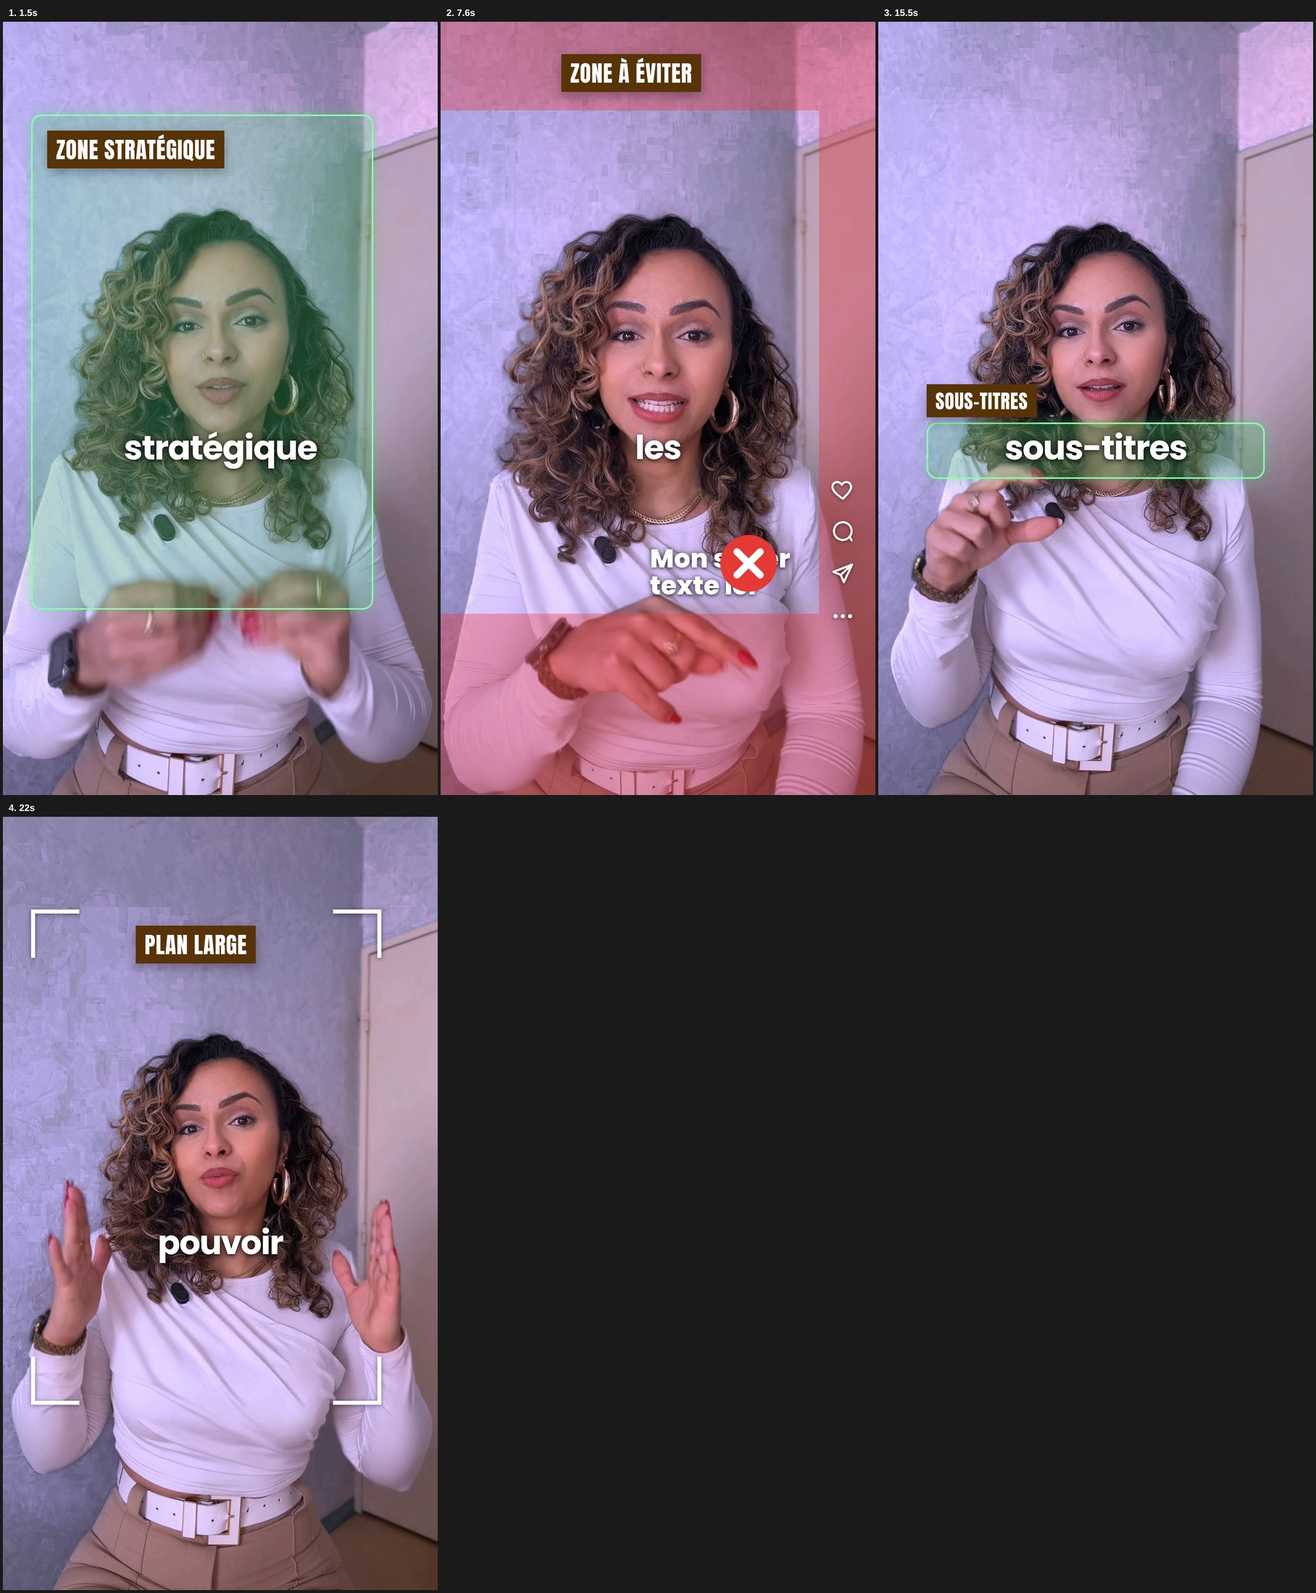
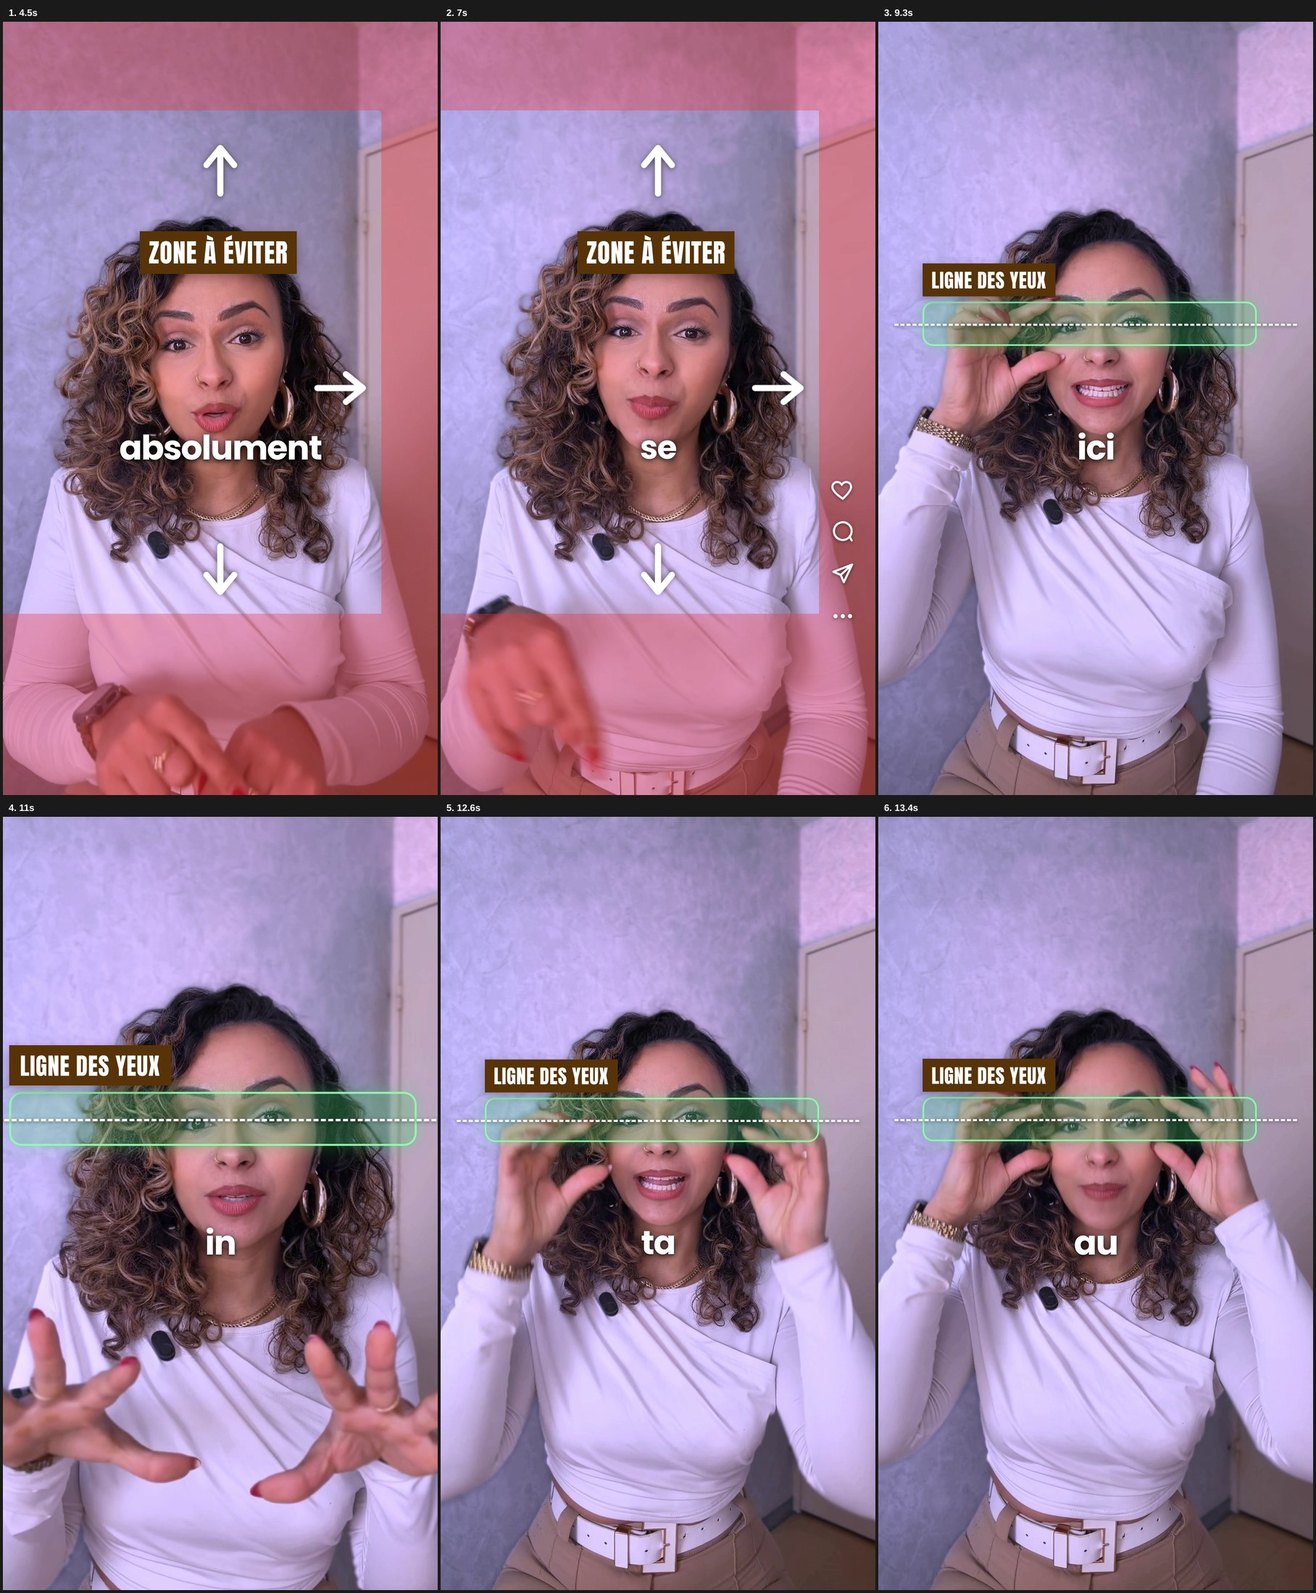
zone v2: label + arrows in the readable area, no fake text, eye line tracks her eyes
Claude-Session: https://claude.ai/code/session_019pwbzbkUo8jfmpgWNgx2Yp

diff --git a/reels/zone/index.html b/reels/zone/index.html
@@ -18,6 +18,8 @@ html,body{width:1080px;height:1920px;overflow:hidden;background:#000}
 .lbl{position:absolute;z-index:12;font-family:Anton;letter-spacing:.02em;color:#fff;background:#573307;padding:6px 22px 4px;
   box-shadow:0 10px 26px rgba(0,0,0,.3)}
 #igcol{position:absolute;z-index:9;left:968px;top:1130px;display:flex;flex-direction:column;gap:38px;filter:drop-shadow(0 2px 4px rgba(0,0,0,.5))}
+#eyeG{position:absolute;inset:0;z-index:6}
+.arw{position:absolute;z-index:11;filter:drop-shadow(0 3px 8px rgba(0,0,0,.55))}
 #badTxt{position:absolute;z-index:8;left:520px;top:1300px;font:800 64px/1.05 Poppins;color:#fff;width:520px;
   text-shadow:0 0 18px rgba(0,0,0,.6),0 3px 8px rgba(0,0,0,.5)}
 #badX{position:absolute;z-index:11;left:690px;top:1270px}
@@ -61,16 +63,16 @@ html,body{width:1080px;height:1920px;overflow:hidden;background:#000}
 <audio id="sfx15" src="assets/sfx/pop.mp3" data-start="24.300" data-duration="0.720" data-track-index="10" data-volume="0.180"></audio>
 <audio id="sfx16" src="assets/sfx/click.mp3" data-start="25.200" data-duration="0.360" data-track-index="10" data-volume="0.300"></audio>
 <audio id="sfx17" src="assets/sfx/sparkle.mp3" data-start="25.350" data-duration="1.119" data-track-index="11" data-volume="0.105"></audio>
-  <div id="stage"><video id="bgv" class="full" src="assets/aroll.mp4" muted playsinline data-start="0" data-media-start="0" data-duration="26.469" data-track-index="0"></video></div>
+  <div id="stage"><video id="bgv" class="full" src="assets/aroll.mp4" muted playsinline data-start="0" data-media-start="0" data-duration="26.469" data-track-index="0"></video>
+<div id="eyeG"><div id="zEye" class="zone g" style="left:110px;top:717px;width:830px;height:110px"></div><div id="eyeLine" style="top:772px"></div><div id="lEye" class="lbl" style="left:110px;top:622px;font-size:48px">LIGNE DES YEUX</div></div></div>
 <div id="zSafe" class="zone g" style="left:70px;top:230px;width:850px;height:1230px"></div>
 <div id="lSafe" class="lbl" style="left:110px;top:270px;font-size:56px">ZONE STRATÉGIQUE</div>
 <div id="zRed"><div class="zone r" style="left:0;top:0;width:1080px;height:220px"></div><div class="zone r" style="left:0;top:1470px;width:1080px;height:450px"></div><div id="zRight" class="zone r" style="left:940px;top:220px;width:140px;height:1250px"></div></div>
-<div id="lRed" class="lbl" style="left:300px;top:80px;font-size:56px">ZONE À ÉVITER</div>
+<div id="lRed" class="lbl" style="left:340px;top:520px;font-size:64px">ZONE À ÉVITER</div>
+<div id="arUp" class="arw" style="left:492px;top:300px;transform:rotate(0deg)"><svg viewBox="0 0 100 140" width="96" height="134"><path d="M50 132V24M14 58L50 14l36 44" fill="none" stroke="#fff" stroke-width="16" stroke-linecap="round" stroke-linejoin="round"/></svg></div>
+<div id="arDn" class="arw" style="left:492px;top:1290px;transform:rotate(180deg)"><svg viewBox="0 0 100 140" width="96" height="134"><path d="M50 132V24M14 58L50 14l36 44" fill="none" stroke="#fff" stroke-width="16" stroke-linecap="round" stroke-linejoin="round"/></svg></div>
+<div id="arRt" class="arw" style="left:790px;top:840px;transform:rotate(90deg)"><svg viewBox="0 0 100 140" width="96" height="134"><path d="M50 132V24M14 58L50 14l36 44" fill="none" stroke="#fff" stroke-width="16" stroke-linecap="round" stroke-linejoin="round"/></svg></div>
 <div id="igcol"><div class="igi"><svg viewBox="0 0 24 24" width="62" height="62"><path d="M12 21s-7.5-4.6-9.5-9.2C1 8.4 3.2 5 6.6 5c2.1 0 3.4 1.2 4.4 2.5C12 6.2 13.3 5 15.4 5 18.8 5 21 8.4 19.5 11.8 17.5 16.4 12 21 12 21z" fill="none" stroke="#fff" stroke-width="2"/></svg></div><div class="igi"><svg viewBox="0 0 24 24" width="62" height="62"><path d="M20.5 11.5a8.5 8.5 0 1 1-3.4-6.8 8.4 8.4 0 0 1 3.4 6.8zM20.5 20.5l-2-4" fill="none" stroke="#fff" stroke-width="2" stroke-linecap="round"/></svg></div><div class="igi"><svg viewBox="0 0 24 24" width="62" height="62"><path d="M21 3L3 10l7 3 3 7z M10 13L21 3" fill="none" stroke="#fff" stroke-width="2" stroke-linejoin="round"/></svg></div><div class="igi"><svg viewBox="0 0 24 24" width="62" height="62"><circle cx="5" cy="12" r="2" fill="#fff"/><circle cx="12" cy="12" r="2" fill="#fff"/><circle cx="19" cy="12" r="2" fill="#fff"/></svg></div></div>
-<div id="badTxt">Mon super texte ici</div>
-<div id="badX"><svg viewBox="0 0 100 100" width="150" height="150"><circle cx="50" cy="50" r="44" fill="#E53935"/><path d="M32 32l36 36M68 32L32 68" stroke="#fff" stroke-width="11" stroke-linecap="round"/></svg></div>
-<div id="zEye" class="zone g" style="left:110px;top:717px;width:830px;height:110px"></div><div id="eyeLine" style="top:772px"></div>
-<div id="lEye" class="lbl" style="left:110px;top:622px;font-size:48px">LIGNE DES YEUX</div>
 <div id="zCap" class="zone g" style="left:120px;top:995px;width:840px;height:140px"></div>
 <div id="lCap" class="lbl" style="left:120px;top:900px;font-size:48px">SOUS-TITRES</div>
 <div id="zHook" class="zone g" style="left:120px;top:240px;width:840px;height:170px"></div>
@@ -208,17 +210,115 @@ tl.fromTo('#zRight',{backgroundColor:'rgba(235,55,55,.36)'},{backgroundColor:'rg
 gsap.set('#lRed',{autoAlpha:0});
 tl.fromTo('#lRed',{autoAlpha:0,scale:0.5},{autoAlpha:1,scale:1,duration:0.28,ease:'back.out(1.8)',immediateRender:false},3.300);
 tl.set('#lRed',{autoAlpha:0},8.250);
+gsap.set('#arUp',{autoAlpha:0});
+tl.fromTo('#arUp',{autoAlpha:0,scale:0.4},{autoAlpha:1,scale:1,duration:0.3,ease:'back.out(1.8)',immediateRender:false},3.550);
+tl.set('#arUp',{autoAlpha:0},8.25);
+gsap.set('#arDn',{autoAlpha:0});
+tl.fromTo('#arDn',{autoAlpha:0,scale:0.4},{autoAlpha:1,scale:1,duration:0.3,ease:'back.out(1.8)',immediateRender:false},3.550);
+tl.set('#arDn',{autoAlpha:0},8.25);
+gsap.set('#arRt',{autoAlpha:0});
+tl.fromTo('#arRt',{autoAlpha:0,scale:0.4},{autoAlpha:1,scale:1,duration:0.3,ease:'back.out(1.8)',immediateRender:false},3.550);
+tl.set('#arRt',{autoAlpha:0},8.25);
+tl.to('#arUp',{y:-14,duration:.3,yoyo:true,repeat:5,ease:'sine.inOut'},3.9);
 gsap.set('#igcol',{autoAlpha:0});
 tl.fromTo('#igcol',{autoAlpha:0,scale:0.7},{autoAlpha:1,scale:1,duration:0.3,ease:'back.out(1.8)',immediateRender:false},5.550);
 tl.set('#igcol',{autoAlpha:0},8.25);
 gsap.set('#igcol .igi',{autoAlpha:0});
 tl.fromTo('#igcol .igi',{autoAlpha:0,x:30},{autoAlpha:1,x:0,duration:.18,stagger:.07,immediateRender:false},5.60);
-gsap.set('#badTxt',{autoAlpha:0});
-tl.fromTo('#badTxt',{autoAlpha:0,scale:0.7},{autoAlpha:1,scale:1,duration:0.25,ease:'back.out(1.8)',immediateRender:false},6.550);
-tl.set('#badTxt',{autoAlpha:0},8.25);
-gsap.set('#badX',{autoAlpha:0});
-tl.fromTo('#badX',{autoAlpha:0,scale:0.3},{autoAlpha:1,scale:1,duration:0.3,ease:'back.out(1.8)',immediateRender:false},7.400);
-tl.set('#badX',{autoAlpha:0},8.25);
+gsap.set('#eyeG',{y:19.0});
+tl.to('#eyeG',{y:18.6,duration:0.067,ease:'none'},8.000);
+tl.to('#eyeG',{y:9.7,duration:0.066,ease:'none'},8.067);
+tl.to('#eyeG',{y:0.8,duration:0.067,ease:'none'},8.133);
+tl.to('#eyeG',{y:-8.1,duration:0.067,ease:'none'},8.200);
+tl.to('#eyeG',{y:-16.8,duration:0.066,ease:'none'},8.267);
+tl.to('#eyeG',{y:-24.8,duration:0.067,ease:'none'},8.333);
+tl.to('#eyeG',{y:-32.7,duration:0.067,ease:'none'},8.400);
+tl.to('#eyeG',{y:-40.4,duration:0.066,ease:'none'},8.467);
+tl.to('#eyeG',{y:-39.5,duration:0.067,ease:'none'},8.533);
+tl.to('#eyeG',{y:-38.6,duration:0.067,ease:'none'},8.600);
+tl.to('#eyeG',{y:-37.7,duration:0.066,ease:'none'},8.667);
+tl.to('#eyeG',{y:-36.8,duration:0.067,ease:'none'},8.733);
+tl.to('#eyeG',{y:-36.2,duration:0.067,ease:'none'},8.800);
+tl.to('#eyeG',{y:-35.4,duration:0.066,ease:'none'},8.867);
+tl.to('#eyeG',{y:-33.9,duration:0.067,ease:'none'},8.933);
+tl.to('#eyeG',{y:-31.6,duration:0.067,ease:'none'},9.000);
+tl.to('#eyeG',{y:-28.8,duration:0.066,ease:'none'},9.067);
+tl.to('#eyeG',{y:-26.1,duration:0.067,ease:'none'},9.133);
+tl.to('#eyeG',{y:-23.4,duration:0.067,ease:'none'},9.200);
+tl.to('#eyeG',{y:-20.9,duration:0.066,ease:'none'},9.267);
+tl.to('#eyeG',{y:-18.9,duration:0.067,ease:'none'},9.333);
+tl.to('#eyeG',{y:-17.9,duration:0.067,ease:'none'},9.400);
+tl.to('#eyeG',{y:-18.5,duration:0.066,ease:'none'},9.467);
+tl.to('#eyeG',{y:-20.9,duration:0.067,ease:'none'},9.533);
+tl.to('#eyeG',{y:-23.9,duration:0.067,ease:'none'},9.600);
+tl.to('#eyeG',{y:-26.8,duration:0.066,ease:'none'},9.667);
+tl.to('#eyeG',{y:-29.7,duration:0.067,ease:'none'},9.733);
+tl.to('#eyeG',{y:-32.6,duration:0.067,ease:'none'},9.800);
+tl.to('#eyeG',{y:-35.0,duration:0.066,ease:'none'},9.867);
+tl.to('#eyeG',{y:-36.4,duration:0.067,ease:'none'},9.933);
+tl.to('#eyeG',{y:-36.0,duration:0.067,ease:'none'},10.000);
+tl.to('#eyeG',{y:-35.1,duration:0.066,ease:'none'},10.067);
+tl.to('#eyeG',{y:-34.3,duration:0.067,ease:'none'},10.133);
+tl.to('#eyeG',{y:-33.4,duration:0.067,ease:'none'},10.200);
+tl.to('#eyeG',{y:-32.6,duration:0.066,ease:'none'},10.267);
+tl.to('#eyeG',{y:-31.9,duration:0.067,ease:'none'},10.333);
+tl.to('#eyeG',{y:-31.7,duration:0.067,ease:'none'},10.400);
+tl.to('#eyeG',{y:-31.8,duration:0.066,ease:'none'},10.467);
+tl.to('#eyeG',{y:-29.7,duration:0.067,ease:'none'},10.533);
+tl.to('#eyeG',{y:-27.6,duration:0.067,ease:'none'},10.600);
+tl.to('#eyeG',{y:-25.6,duration:0.066,ease:'none'},10.667);
+tl.to('#eyeG',{y:-23.4,duration:0.067,ease:'none'},10.733);
+tl.to('#eyeG',{y:-21.6,duration:0.067,ease:'none'},10.800);
+tl.to('#eyeG',{y:-19.8,duration:0.066,ease:'none'},10.867);
+tl.to('#eyeG',{y:-18.1,duration:0.067,ease:'none'},10.933);
+tl.to('#eyeG',{y:-18.9,duration:0.067,ease:'none'},11.000);
+tl.to('#eyeG',{y:-20.1,duration:0.066,ease:'none'},11.067);
+tl.to('#eyeG',{y:-21.4,duration:0.067,ease:'none'},11.133);
+tl.to('#eyeG',{y:-22.7,duration:0.067,ease:'none'},11.200);
+tl.to('#eyeG',{y:-23.7,duration:0.066,ease:'none'},11.267);
+tl.to('#eyeG',{y:-23.9,duration:0.067,ease:'none'},11.333);
+tl.to('#eyeG',{y:-24.0,duration:0.067,ease:'none'},11.400);
+tl.to('#eyeG',{y:-23.9,duration:0.066,ease:'none'},11.467);
+tl.to('#eyeG',{y:-23.1,duration:0.067,ease:'none'},11.533);
+tl.to('#eyeG',{y:-23.3,duration:0.067,ease:'none'},11.600);
+tl.to('#eyeG',{y:-23.9,duration:0.066,ease:'none'},11.667);
+tl.to('#eyeG',{y:-24.6,duration:0.067,ease:'none'},11.733);
+tl.to('#eyeG',{y:-25.9,duration:0.067,ease:'none'},11.800);
+tl.to('#eyeG',{y:-27.3,duration:0.066,ease:'none'},11.867);
+tl.to('#eyeG',{y:-27.5,duration:0.067,ease:'none'},11.933);
+tl.to('#eyeG',{y:-27.0,duration:0.067,ease:'none'},12.000);
+tl.to('#eyeG',{y:-25.6,duration:0.066,ease:'none'},12.067);
+tl.to('#eyeG',{y:-23.8,duration:0.067,ease:'none'},12.133);
+tl.to('#eyeG',{y:-21.9,duration:0.067,ease:'none'},12.200);
+tl.to('#eyeG',{y:-20.2,duration:0.066,ease:'none'},12.267);
+tl.to('#eyeG',{y:-18.5,duration:0.067,ease:'none'},12.333);
+tl.to('#eyeG',{y:-18.1,duration:0.067,ease:'none'},12.400);
+tl.to('#eyeG',{y:-18.7,duration:0.066,ease:'none'},12.467);
+tl.to('#eyeG',{y:-19.6,duration:0.067,ease:'none'},12.533);
+tl.to('#eyeG',{y:-20.4,duration:0.067,ease:'none'},12.600);
+tl.to('#eyeG',{y:-22.4,duration:0.066,ease:'none'},12.667);
+tl.to('#eyeG',{y:-25.4,duration:0.067,ease:'none'},12.733);
+tl.to('#eyeG',{y:-28.8,duration:0.067,ease:'none'},12.800);
+tl.to('#eyeG',{y:-32.0,duration:0.066,ease:'none'},12.867);
+tl.to('#eyeG',{y:-34.9,duration:0.067,ease:'none'},12.933);
+tl.to('#eyeG',{y:-37.5,duration:0.067,ease:'none'},13.000);
+tl.to('#eyeG',{y:-38.4,duration:0.066,ease:'none'},13.067);
+tl.to('#eyeG',{y:-35.2,duration:0.067,ease:'none'},13.133);
+tl.to('#eyeG',{y:-30.9,duration:0.067,ease:'none'},13.200);
+tl.to('#eyeG',{y:-26.1,duration:0.066,ease:'none'},13.267);
+tl.to('#eyeG',{y:-21.4,duration:0.067,ease:'none'},13.333);
+tl.to('#eyeG',{y:-16.8,duration:0.067,ease:'none'},13.400);
+tl.to('#eyeG',{y:-12.4,duration:0.066,ease:'none'},13.467);
+tl.to('#eyeG',{y:-9.6,duration:0.067,ease:'none'},13.533);
+tl.to('#eyeG',{y:-11.3,duration:0.067,ease:'none'},13.600);
+tl.to('#eyeG',{y:-13.2,duration:0.066,ease:'none'},13.667);
+tl.to('#eyeG',{y:-15.3,duration:0.067,ease:'none'},13.733);
+tl.to('#eyeG',{y:-17.5,duration:0.067,ease:'none'},13.800);
+tl.to('#eyeG',{y:-19.7,duration:0.066,ease:'none'},13.867);
+tl.to('#eyeG',{y:-22.0,duration:0.067,ease:'none'},13.933);
+tl.to('#eyeG',{y:-24.4,duration:0.067,ease:'none'},14.000);
+tl.to('#eyeG',{y:-25.4,duration:0.066,ease:'none'},14.067);
+tl.to('#eyeG',{y:-26.1,duration:0.067,ease:'none'},14.133);
 gsap.set('#zEye',{autoAlpha:0});
 tl.fromTo('#zEye',{autoAlpha:0},{autoAlpha:1,duration:0.25,immediateRender:false},8.700);
 tl.to('#zEye',{autoAlpha:0,duration:.2},13.650);
@@ -228,7 +328,7 @@ tl.to('#eyeLine',{autoAlpha:0,duration:.2},13.650);
 tl.fromTo('#eyeLine',{scaleX:0},{scaleX:1,duration:.4,ease:'power2.out',immediateRender:false},8.70);
 gsap.set('#lEye',{autoAlpha:0});
 tl.fromTo('#lEye',{autoAlpha:0,scale:0.5},{autoAlpha:1,scale:1,duration:0.28,ease:'back.out(1.8)',immediateRender:false},8.750);
-tl.set('#lEye',{autoAlpha:0},13.850);
+tl.set('#lEye',{autoAlpha:0},13.85);
 gsap.set('#zCap',{autoAlpha:0});
 tl.fromTo('#zCap',{autoAlpha:0},{autoAlpha:1,duration:0.25,immediateRender:false},14.240);
 tl.to('#zCap',{autoAlpha:0,duration:.2},17.400);

diff --git a/reels/zone/build.py b/reels/zone/build.py
@@ -73,6 +73,7 @@ def label(lid, text, x, y, t, b, size=56):
 # ------------------------------------------------------------------ the zones, in the order she points at them
 def zones():
     html, tw = [], []
+    stage = ZONES_IN_STAGE
     # 1. strategic (safe) zone
     html.append('<div id="zSafe" class="zone g" style="left:70px;top:230px;width:850px;height:1230px"></div>')
     tw += [f"tl.fromTo('#zSafe',{{scale:1.08}},{{scale:1,duration:.4,ease:'power3.out',immediateRender:true}},0);",
@@ -87,7 +88,12 @@ def zones():
                 '<div id="zRight" class="zone r" style="left:940px;top:220px;width:140px;height:1250px"></div></div>')
     tw += fade('#zRed', 3.22, 8.25)
     tw.append("tl.fromTo('#zRight',{backgroundColor:'rgba(235,55,55,.36)'},{backgroundColor:'rgba(235,55,55,.62)',duration:.25,yoyo:true,repeat:3,immediateRender:false},5.50);")
-    h, t = label('lRed', 'ZONE À ÉVITER', 300, 80, 3.30, 8.25)
+    h, t = label('lRed', 'ZONE À ÉVITER', 340, 520, 3.30, 8.25, 64)
+    arrows = [('arUp', 492, 300, 0), ('arDn', 492, 1290, 180), ('arRt', 790, 840, 90)]   # point at the top, bottom and side bands
+    for aid, x, y, rot in arrows:
+        h.append(f'<div id="{aid}" class="arw" style="left:{x}px;top:{y}px;transform:rotate({rot}deg)">{ARROW}</div>')
+        t += pop(f'#{aid}', 3.55, .3, .4) + [f"tl.set('#{aid}',{{autoAlpha:0}},8.25);"]
+    t.append("tl.to('#arUp',{y:-14,duration:.3,yoyo:true,repeat:5,ease:'sine.inOut'},3.9);")
     html += h
     tw += t
     # fake Instagram buttons + a text that hides under them
@@ -96,19 +102,18 @@ def zones():
     tw += pop('#igcol', 5.55, .3, .7) + ["tl.set('#igcol',{autoAlpha:0},8.25);"]
     tw += ["gsap.set('#igcol .igi',{autoAlpha:0});",
            "tl.fromTo('#igcol .igi',{autoAlpha:0,x:30},{autoAlpha:1,x:0,duration:.18,stagger:.07,immediateRender:false},5.60);"]
-    html.append('<div id="badTxt">Mon super texte ici</div>')
-    tw += pop('#badTxt', 6.55, .25, .7) + ["tl.set('#badTxt',{autoAlpha:0},8.25);"]
-    html.append('<div id="badX"><svg viewBox="0 0 100 100" width="150" height="150"><circle cx="50" cy="50" r="44" fill="#E53935"/>'
-                '<path d="M32 32l36 36M68 32L32 68" stroke="#fff" stroke-width="11" stroke-linecap="round"/></svg></div>')
-    tw += pop('#badX', 7.40, .3, .3) + ["tl.set('#badX',{autoAlpha:0},8.25);"]
     # 3. eye line, stays put while the picture zooms in and out
-    html.append(f'<div id="zEye" class="zone g" style="left:110px;top:{EYE_Y - 55}px;width:830px;height:110px"></div>'
-                f'<div id="eyeLine" style="top:{EYE_Y}px"></div>')
+    stage.append(f'<div id="eyeG"><div id="zEye" class="zone g" style="left:110px;top:{EYE_Y - 55}px;width:830px;height:110px"></div>'
+                 f'<div id="eyeLine" style="top:{EYE_Y}px"></div>'
+                 f'<div id="lEye" class="lbl" style="left:110px;top:{EYE_Y - 150}px;font-size:48px">LIGNE DES YEUX</div></div>')
+    with open('work/eyes.json') as f:
+        eyes = json.load(f)                               # tracked eye line (eyes.py): the guide rides on her eyes
+    tw.append(f"gsap.set('#eyeG',{{y:{eyes[0][1] - EYE_Y:.1f}}});")
+    for (t0, y0), (t1, y1) in zip(eyes, eyes[1:]):
+        tw.append(f"tl.to('#eyeG',{{y:{y1 - EYE_Y:.1f},duration:{t1 - t0:.3f},ease:'none'}},{t0:.3f});")
     tw += fade('#zEye', 8.70, 13.85) + fade('#eyeLine', 8.70, 13.85)
     tw.append("tl.fromTo('#eyeLine',{scaleX:0},{scaleX:1,duration:.4,ease:'power2.out',immediateRender:false},8.70);")
-    h, t = label('lEye', 'LIGNE DES YEUX', 110, EYE_Y - 150, 8.75, 13.85, 48)
-    html += h
-    tw += t
+    tw += pop('#lEye', 8.75, .28, .5) + ["tl.set('#lEye',{autoAlpha:0},13.85);"]
     # 4. captions zone, the real captions sit inside it
     html.append(f'<div id="zCap" class="zone g" style="left:120px;top:{CAP_Y - 70}px;width:840px;height:140px"></div>')
     tw += fade('#zCap', 14.24, 17.60)
@@ -136,6 +141,9 @@ def zones():
     return html, tw
 
 
+ZONES_IN_STAGE = []
+ARROW = ('<svg viewBox="0 0 100 140" width="96" height="134"><path d="M50 132V24M14 58L50 14l36 44" fill="none" stroke="#fff" '
+         'stroke-width="16" stroke-linecap="round" stroke-linejoin="round"/></svg>')
 IG_ICONS = [   # white Instagram-style side buttons
     '<svg viewBox="0 0 24 24" width="62" height="62"><path d="M12 21s-7.5-4.6-9.5-9.2C1 8.4 3.2 5 6.6 5c2.1 0 3.4 1.2 4.4 2.5C12 6.2 13.3 5 15.4 5 18.8 5 21 8.4 19.5 11.8 17.5 16.4 12 21 12 21z" fill="none" stroke="#fff" stroke-width="2"/></svg>',
     '<svg viewBox="0 0 24 24" width="62" height="62"><path d="M20.5 11.5a8.5 8.5 0 1 1-3.4-6.8 8.4 8.4 0 0 1 3.4 6.8zM20.5 20.5l-2-4" fill="none" stroke="#fff" stroke-width="2" stroke-linecap="round"/></svg>',
@@ -209,6 +217,8 @@ html,body{{width:1080px;height:1920px;overflow:hidden;background:#000}}
 .lbl{{position:absolute;z-index:12;font-family:Anton;letter-spacing:.02em;color:#fff;background:{BLOCK};padding:6px 22px 4px;
   box-shadow:0 10px 26px rgba(0,0,0,.3)}}
 #igcol{{position:absolute;z-index:9;left:968px;top:1130px;display:flex;flex-direction:column;gap:38px;filter:drop-shadow(0 2px 4px rgba(0,0,0,.5))}}
+#eyeG{{position:absolute;inset:0;z-index:6}}
+.arw{{position:absolute;z-index:11;filter:drop-shadow(0 3px 8px rgba(0,0,0,.55))}}
 #badTxt{{position:absolute;z-index:8;left:520px;top:1300px;font:800 64px/1.05 Poppins;color:#fff;width:520px;
   text-shadow:0 0 18px rgba(0,0,0,.6),0 3px 8px rgba(0,0,0,.5)}}
 #badX{{position:absolute;z-index:11;left:690px;top:1270px}}
@@ -250,7 +260,8 @@ def build():
 <div id="root" data-composition-id="main" data-start="0" data-duration="{DUR:.3f}" data-width="1080" data-height="1920">
   <audio id="bga" src="assets/aroll.mp4" data-start="0" data-media-start="0" data-duration="{DUR:.3f}" data-track-index="2" data-volume="1"></audio>
 {nl.join(audio())}
-  <div id="stage"><video id="bgv" class="full" src="assets/aroll.mp4" muted playsinline data-start="0" data-media-start="0" data-duration="{DUR:.3f}" data-track-index="0"></video></div>
+  <div id="stage"><video id="bgv" class="full" src="assets/aroll.mp4" muted playsinline data-start="0" data-media-start="0" data-duration="{DUR:.3f}" data-track-index="0"></video>
+{nl.join(ZONES_IN_STAGE)}</div>
 {html}
 </div>
 <script>

diff --git a/reels/zone/eyes.py b/reels/zone/eyes.py
@@ -1,0 +1,41 @@
+#!/usr/bin/env python3
+"""Track her eye line (face box from OpenCV's Haar cascade, eyes ~0.42 down the face) every 2 frames over the eye-line
+part of the reel, smoothed, -> work/eyes.json [[t, eye_y], ...] in 1080x1920 pixels.
+
+PY eyes.py [t0 t1]
+"""
+import json
+import sys
+
+import cv2
+import numpy as np
+
+T0, T1 = (float(sys.argv[1]), float(sys.argv[2])) if len(sys.argv) > 2 else (8.0, 14.2)
+cap = cv2.VideoCapture('assets/aroll.mp4')
+fps = cap.get(cv2.CAP_PROP_FPS) or 30
+casc = cv2.CascadeClassifier(cv2.data.haarcascades + 'haarcascade_frontalface_default.xml')
+eye_c = cv2.CascadeClassifier(cv2.data.haarcascades + 'haarcascade_eye.xml')
+cap.set(cv2.CAP_PROP_POS_FRAMES, int(T0 * fps))
+pts, n = [], int(T0 * fps)
+while n <= T1 * fps:
+    ok, fr = cap.read()
+    if not ok:
+        break
+    if n % 2 == 0:
+        g = cv2.cvtColor(cv2.resize(fr, (540, 960)), cv2.COLOR_BGR2GRAY)
+        faces = casc.detectMultiScale(g, 1.1, 5, minSize=(120, 120))
+        if len(faces):
+            x, y, w, h = max(faces, key=lambda f: f[2] * f[3])
+            ey = y + .40 * h
+            eyes = eye_c.detectMultiScale(g[y:y + int(h * .6), x:x + w], 1.1, 6, minSize=(20, 20))
+            if len(eyes) >= 1:
+                ey = y + float(np.median([e[1] + e[3] / 2 for e in eyes]))
+            pts.append([n / fps, ey * 2])
+    n += 1
+t = np.array([p[0] for p in pts])
+y = np.array([p[1] for p in pts])
+# median then moving average: no jitter, still follows her head
+ym = np.array([np.median(y[max(0, i - 3):i + 4]) for i in range(len(y))])
+ys = np.convolve(np.pad(ym, 3, mode='edge'), np.ones(7) / 7, mode='valid')
+json.dump([[round(a, 3), round(b, 1)] for a, b in zip(t, ys)], open('work/eyes.json', 'w'))
+print(len(pts), 'points; eye y range', round(ys.min()), round(ys.max()))
